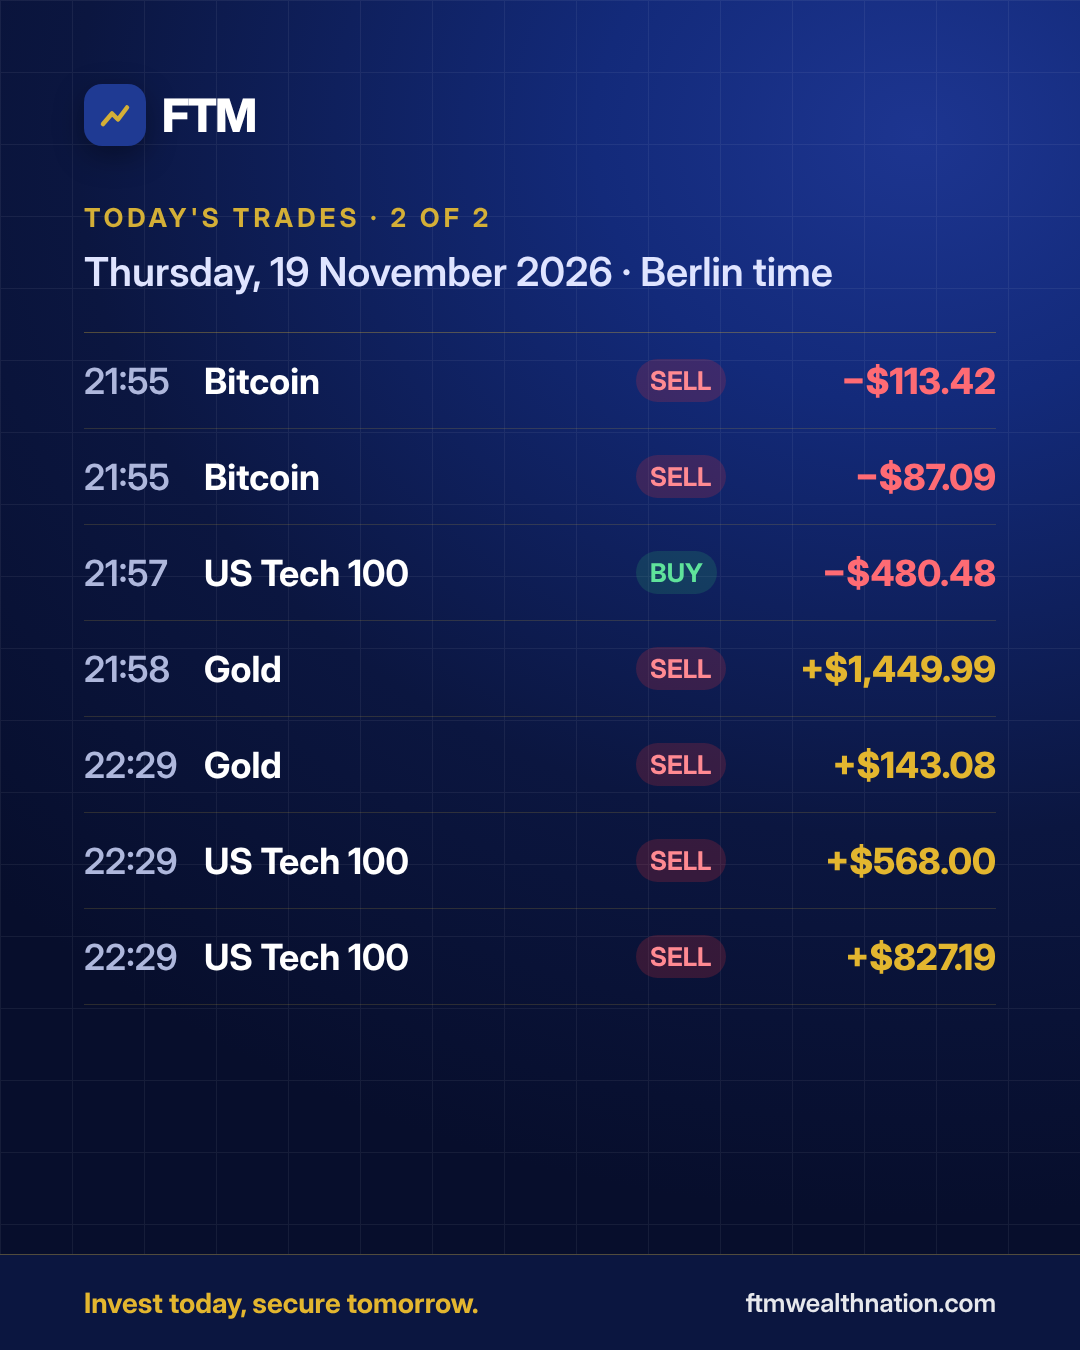
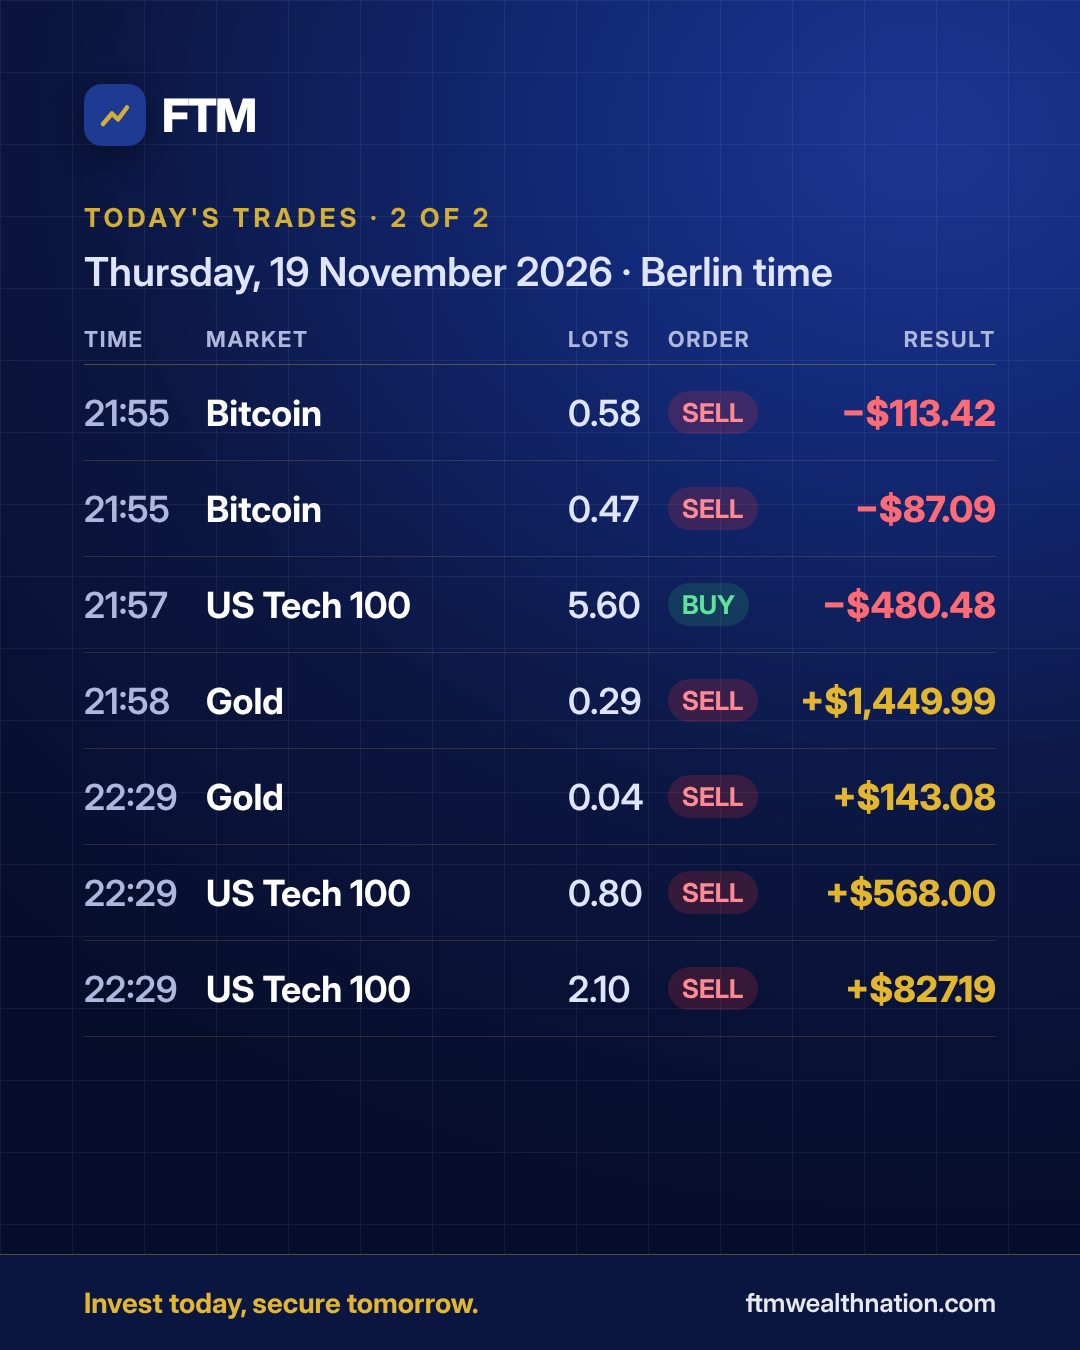
Result carousel: wider time column; tonight's slides with lots
Claude-Session: https://claude.ai/code/session_015ASeiR4KkcEsuYPMxYb7QY

diff --git a/social/tools/render.js b/social/tools/render.js
@@ -63,13 +63,13 @@ function trades(w, h, part, parts) {
   const sym = { USD: '$', EUR: '€', GBP: '£' }[D.cur] || '';
   const mny = v => (v > 0 ? '+' : v < 0 ? '−' : '') + sym + Math.abs(v).toLocaleString('en-US', { minimumFractionDigits: 2, maximumFractionDigits: 2 });
   const rh = Math.min(96, Math.floor(820 / Math.max(L.length, 1)));
-  const rows = L.map(r => `<div style="display:grid;grid-template-columns:105px 1fr 110px 120px 215px;align-items:center;height:${rh}px;border-bottom:1.5px solid rgba(212,175,55,.18);font-size:${Math.min(36, rh * .42)}px">
+  const rows = L.map(r => `<div style="display:grid;grid-template-columns:122px 1fr 100px 118px 210px;align-items:center;height:${rh}px;border-bottom:1.5px solid rgba(212,175,55,.18);font-size:${Math.min(36, rh * .42)}px">
     <span style="color:#aeb7dc;font-weight:600">${tm(r.c)}</span><span style="font-weight:700;white-space:nowrap">${esc(mk(r.s))}</span><span style="color:#dfe4ff;font-weight:600;white-space:nowrap">${r.v != null ? (+r.v).toFixed(2) : ''}</span>
     <span><b style="font-size:.72em;padding:6px 14px;border-radius:99px;background:${/buy/i.test(r.d) ? 'rgba(47,191,113,.18);color:#5fe39b' : 'rgba(229,50,62,.2);color:#ff8a92'}">${/buy/i.test(r.d) ? 'BUY' : 'SELL'}</b></span>
     <span style="text-align:right;font-weight:800;color:${r.pl >= 0 ? '#E3B62F' : '#ff6b74'}">${mny(r.pl)}</span></div>`).join('');
   return `<div class="grid"></div><div class="wrap"><div class="logo">${MARK}FTM</div>
     <div class="kick" style="margin-top:56px">Today's trades · ${part + 1} of ${parts}</div><div class="date">${wd}, ${d} ${MONTHS[m - 1]} ${y} · Berlin time</div>
-    <div style="margin-top:30px;display:grid;grid-template-columns:105px 1fr 110px 120px 215px;font-size:22px;letter-spacing:.08em;text-transform:uppercase;color:#aeb7dc;font-weight:700;padding-bottom:12px"><span>Time</span><span>Market</span><span>Lots</span><span>Order</span><span style="text-align:right">Result</span></div><div style="border-top:1.5px solid rgba(212,175,55,.35)">${rows}</div></div>${FOOT}`;
+    <div style="margin-top:30px;display:grid;grid-template-columns:122px 1fr 100px 118px 210px;font-size:22px;letter-spacing:.08em;text-transform:uppercase;color:#aeb7dc;font-weight:700;padding-bottom:12px"><span>Time</span><span>Market</span><span>Lots</span><span>Order</span><span style="text-align:right">Result</span></div><div style="border-top:1.5px solid rgba(212,175,55,.35)">${rows}</div></div>${FOOT}`;
 }
 function card(w, h) {
   return `<div class="grid"></div>${D.line === false ? '' : LINE}<div class="wrap"><div class="logo">${MARK}FTM</div>
